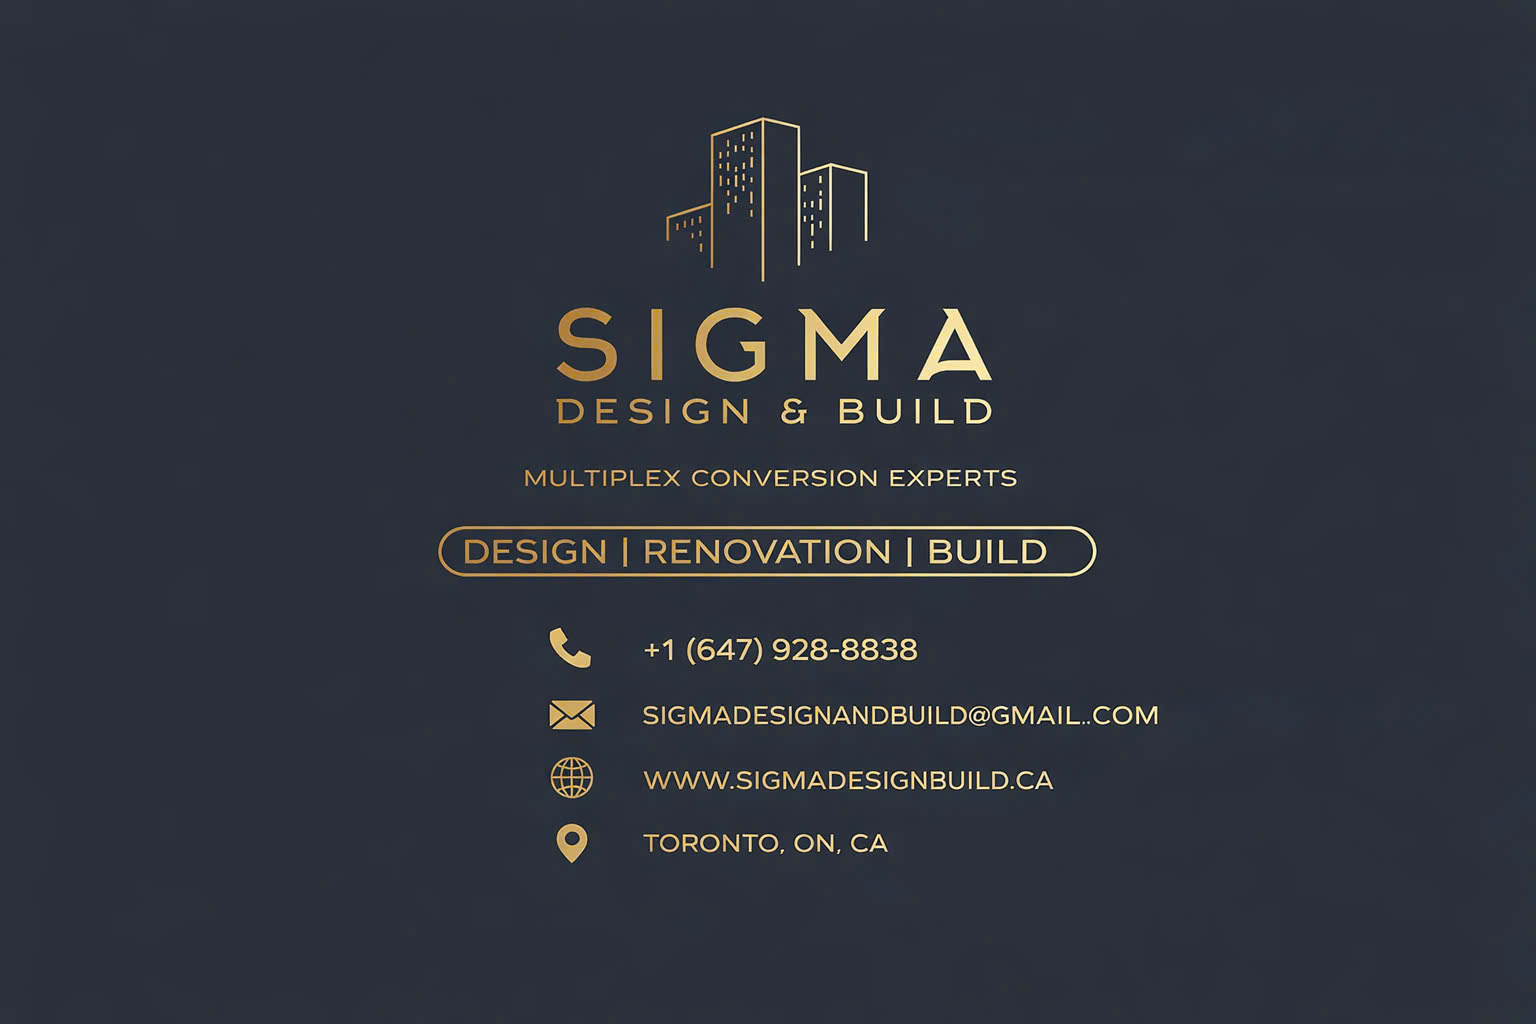
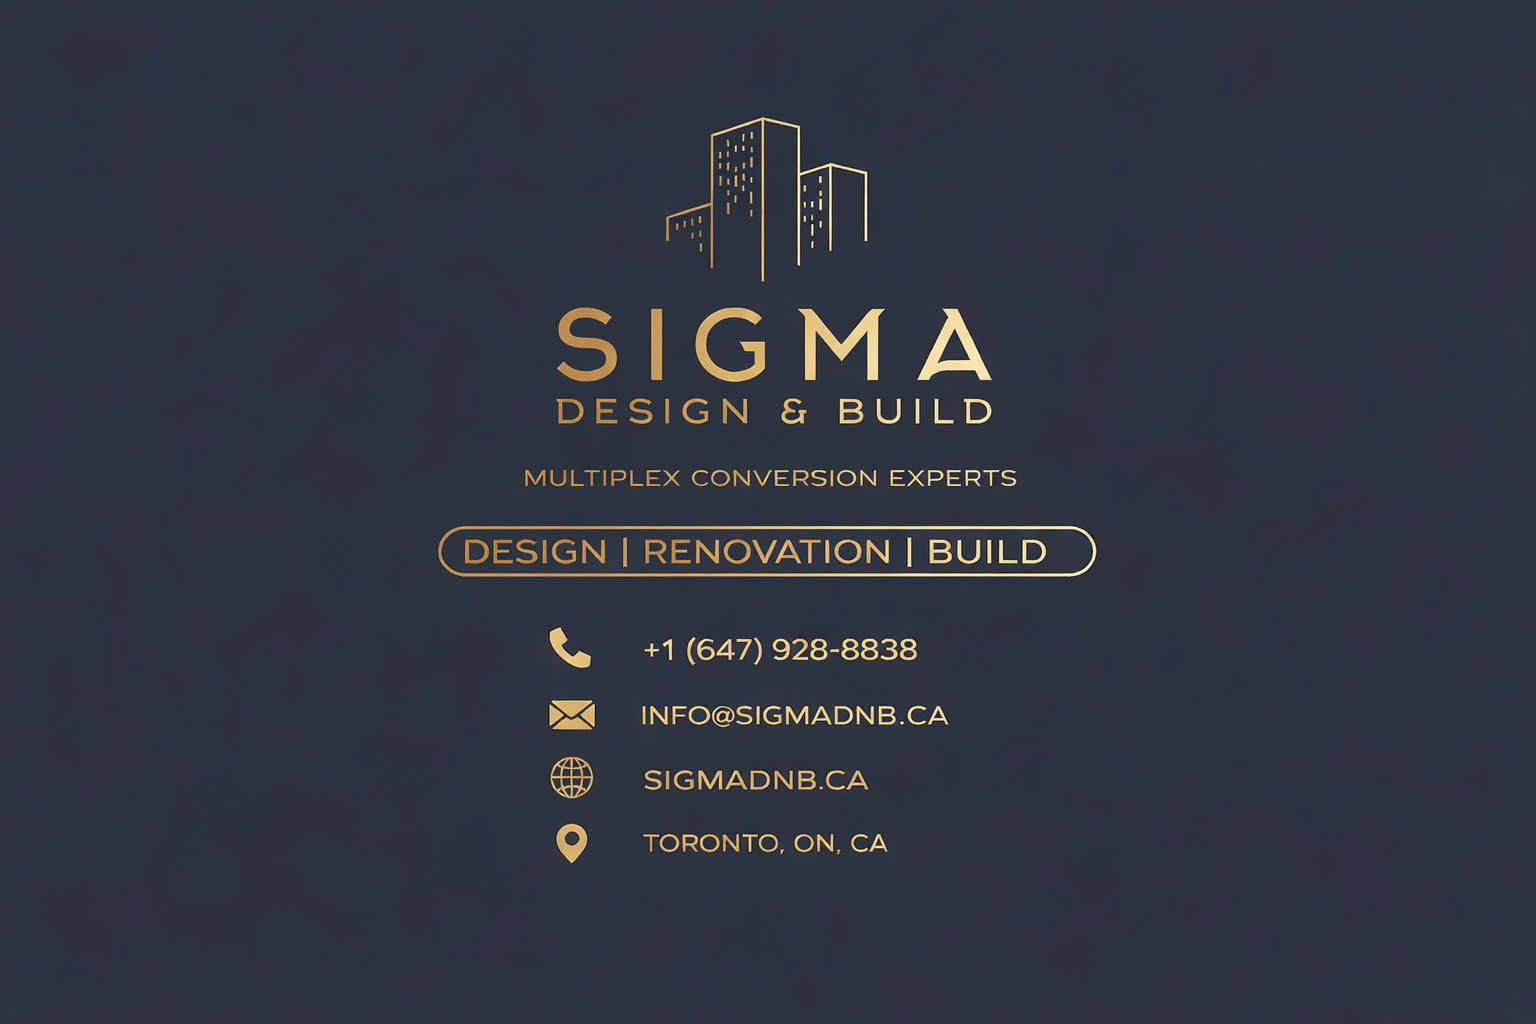
doi hinh

diff --git a/src/components/Footer.jsx b/src/components/Footer.jsx
@@ -212,8 +212,7 @@ export default function Footer() {
             <div className="footer-col">
               <h4>Service Areas</h4>
               <p>
-                East Danforth, Liberty Village, Trinity-Bellwoods, Parkdale,
-                Rosedale, East York, York, Leslieville.
+                Toronto and the GTA.
               </p>
             </div>
           </div>

diff --git a/src/data/siteData.js b/src/data/siteData.js
@@ -7,8 +7,8 @@ export const contactInfo = [
   },
   {
     label: "Website",
-    value: "www.sigmadesignbuild.ca",
-    href: "https://www.sigmadesignbuild.ca"
+    value: "https://sigmadnb.ca/",
+    href: "https://sigmadnb.ca/"
   },
   { label: "Location", value: "Toronto, ON, CA", href: "#" }
 ];
